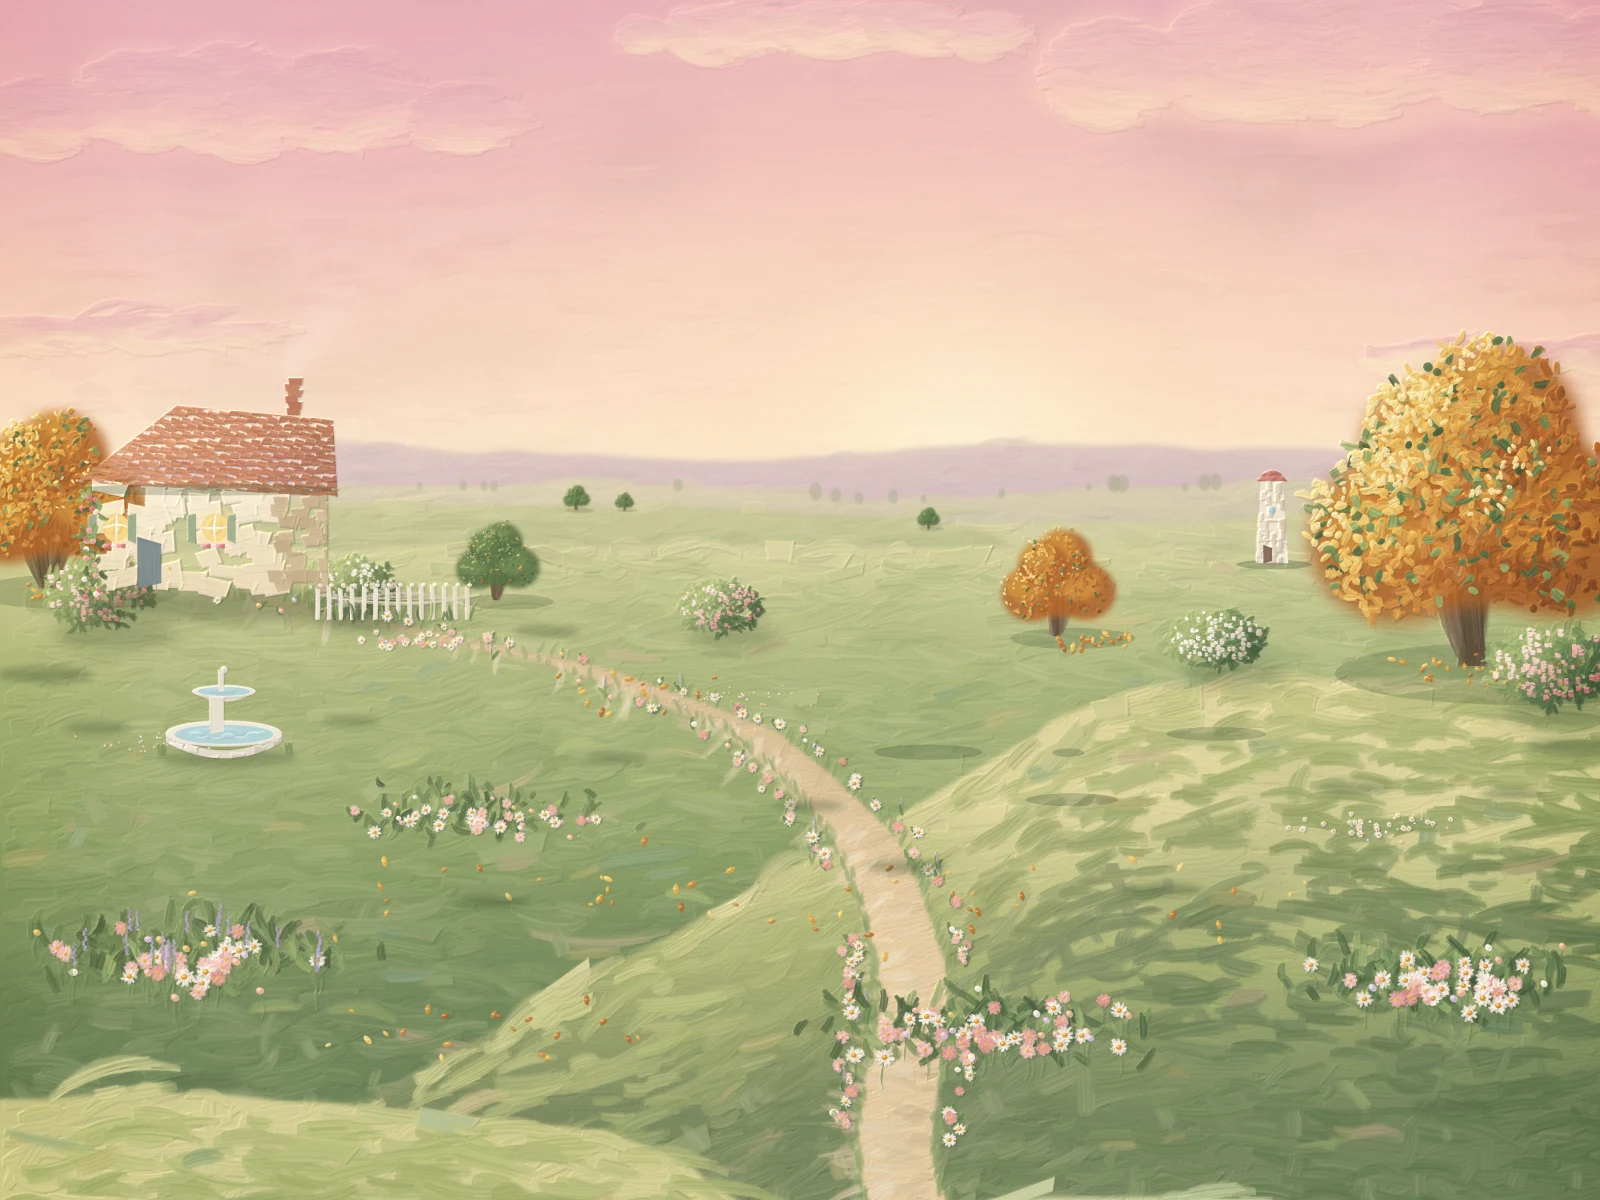
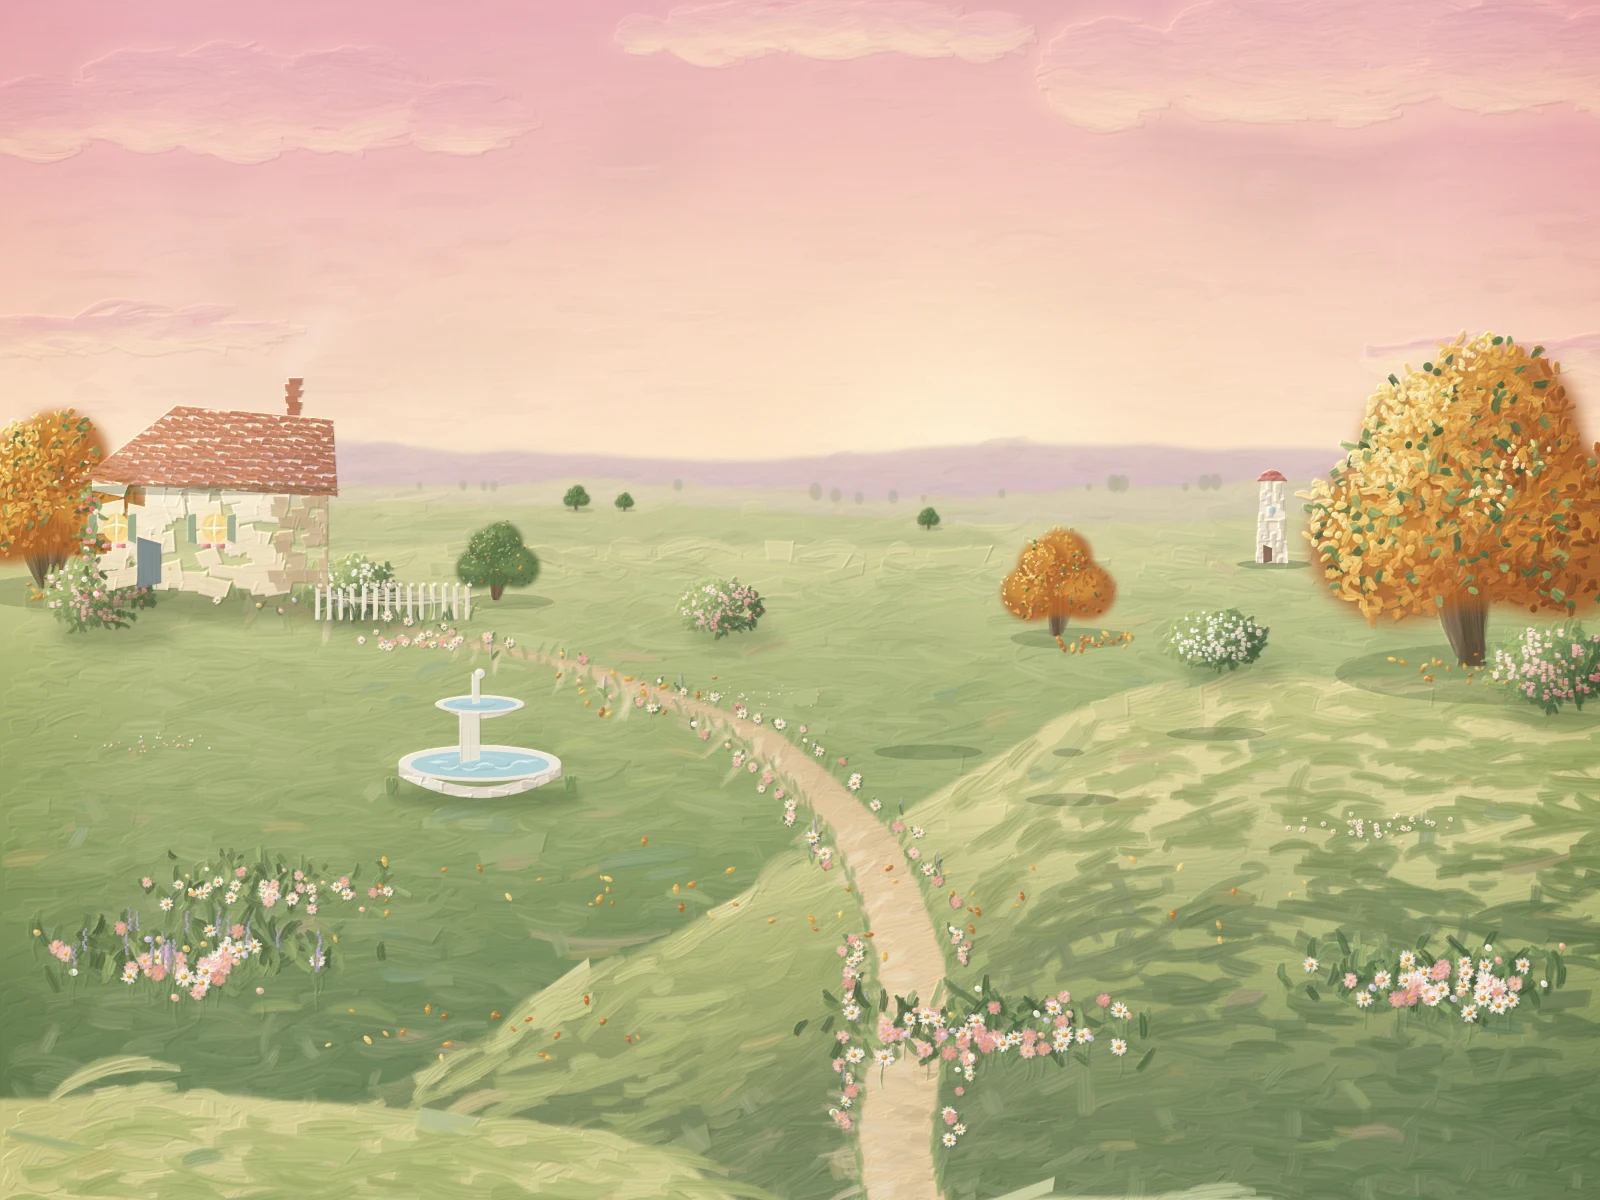
Landing: cleaner Scene 1, closer fountain, tidy tabletop, clear chair
- Scene 1: all the added grass clumps and leafy sprigs are removed
  (layers and their painted shadows). The fountain moves into the left
  middle ground beside the path and is larger (desktop 0.14 of the width,
  first view y 550-733 of 790; phone inside the first view).
- Scene 3 tabletop: the vase moves to the back-right corner, clear of the
  teapot, and the items are painted back to front (vase, cake stand,
  teapot, cups, fruit), so nothing behind is painted over something in front.
- Scene 3 chair: stands on the open grass above and behind the table,
  fully visible (no overlap with the table layer); the whole chair answers
  the pointer and still rocks forward and back.

diff --git a/src/components/landing/LivingLayer.tsx b/src/components/landing/LivingLayer.tsx
@@ -10,8 +10,8 @@ import { useEffect, useRef } from "react";
 // - the three dogs play together once when the cursor enters their group;
 // - the windmill's sails turn while hovered, then slow to a stop;
 // - the fountain's water flows while hovered, then fades away;
-// - the rocking chair (behind the tea table, which is a layer above it) rocks
-//   and settles when the cursor reaches its visible part.
+// - the rocking chair (on the grass behind the tea table) rocks and settles
+//   when the cursor reaches it.
 // Touch: a tap starts any of them and stirs nearby grass.
 // Reduced motion: everything stays still.
 
@@ -259,8 +259,7 @@ export default function LivingLayer({ desktop, mobile, breeze = true }: { deskto
           <div data-rocker className="living-rocker absolute" style={{ ...box(chair), transformOrigin: origin(chair) }}>
             {/* eslint-disable-next-line @next/next/no-img-element -- painted layer */}
             <img src={src(fmt, chair.name)} alt="" draggable={false} className="block h-auto w-full select-none" />
-            {/* only the part that shows above the table answers the pointer */}
-            <span data-rocker-hit className="pointer-events-auto absolute inset-x-[15%] top-0 h-[58%]" />
+            <span data-rocker-hit className="pointer-events-auto absolute inset-x-[12%] top-0 bottom-[4%]" />
           </div>
         )}
         {front.map((s) => (

diff --git a/docs/LANDING-ART-SPEC.md b/docs/LANDING-ART-SPEC.md
@@ -1,7 +1,7 @@
 # Landing: three scenes of one tall painting
 
-Checkpoints of earlier Landing versions: `landing-v1-checkpoint` … `landing-v8-checkpoint` (v8 is the version before the
-windmill and fountain, the still Scene 1 grass, the chair behind the table and the sequenced Scene 2 reveal).
+Checkpoints of earlier Landing versions: `landing-v1-checkpoint` … `landing-v9-checkpoint` (v9 is the version before
+the Scene 1 clean-up, the closer fountain, the tidied tabletop and the unobstructed chair).
 
 ## Structure
 
@@ -13,7 +13,7 @@ crossfade. Because the files are slices of one picture, the joins are seamless.
 | --- | --- | --- | --- |
 | 1 · A living garden | Peaceful, lived-in, early autumn | **A Garden of Ideas** only, centred in the first view | Composed for the first view on real screens, which shows only the top ~72% of the scene (1280×690, 1440×790 with browser toolbars): sky behind the title to ~0.42, then the cottage, trees, path and all three dogs above ~0.68, and meadow and flowers below. Below: a cream cottage with a white picket fence, four autumn trees, three small dogs with a ball, shrubs, the path edged with flowers, meadow flowers, fallen leaves, and grass and flowers in both bottom corners |
 | 2 · Thoughts on the hills | Reflective | The three thoughts as cream handwritten SVG text resting on real hill edges: each baseline is a painted hill's crest line, so the words sit in the shaded hollow just above it, with a soft dark halo. Hidden until the visitor scrolls into the scene; then each thought is written in word by word, in turn (at least 0.8 s apart), and they hide again if the visitor scrolls back above the scene | Overlapping rounded hills, the winding path, the pink flowering shrub, the daisy and cosmos clusters (unchanged from the previous version) |
-| 3 · Afternoon tea | Cosy destination | "Come see what I've been growing." at the top right; the hanging wooden sign **Explore My Work** (→ `/work`) | A shade tree turning gold; a round table with a pink gingham cloth, teapot, cups, a cake stand, fruit and a small vase; a cream-painted wooden rocking chair with a gingham cushion; flowers around the table; the path ending at a little garden gate in a hedge, with warm light beyond; the sign's post and arm above the gate |
+| 3 · Afternoon tea | Cosy destination | "Come see what I've been growing." at the top right; the hanging wooden sign **Explore My Work** (→ `/work`) | A shade tree turning gold; a round table with a pink gingham cloth: the cake stand at the back left, the teapot in the middle, the vase of flowers at the back right, and the cups and fruit in front, each painted back to front; a cream-painted wooden rocking chair with a gingham cushion; flowers around the table; the path ending at a little garden gate in a hedge, with warm light beyond; the sign's post and arm above the gate |
 
 Light is consistent throughout: a low sun beyond the hills, light from the upper left, warm rims, cool shadowed feet,
 and soft cast shadows under every object.
@@ -88,9 +88,9 @@ painted into the scene images, so they can move without leaving a copy behind. T
 | --- | --- |
 | Three dogs (body + tail each) and the ball | Hovering over the group (or tapping it) plays one 2.6 s sequence: the tan dog trots toward the white one, the white dog bows and hops, the dark dog hops twice, the tails wag and the ball pops up. It won't restart until the pointer has left |
 | Windmill sails (scene 1) | The Work page's windmill, repainted with the landing brushes, small in the distance to the right of the title. Hovering it makes the sails gather speed to about one turn every 5 s; afterwards they coast to a stop |
-| Fountain water (scene 1) | The Work page's two-tier fountain, repainted, at lower left. Hovering it makes water flow: two brush takes of the falling streams cross-fade and a few drops fall from the bowl. When the pointer leaves, the water fades away over about 1.4 s |
-| Grass clumps and leafy sprigs (scene 2 only; those in scene 1 stay still) | Each is anchored at its root. A passing cursor bends nearby plants the way it travels and pushes them slightly away, by about 9° at a slow 400 px/s and up to 16° fast, fading with distance (a reach of about 170 px). They spring back to rest. Sprigs are softer than grass, so their leaves follow a beat later |
-| Rocking chair (scene 3, desktop) | Stands behind the tea table; the table is its own layer in front of it, and only the part that shows above the table answers the pointer. Seen from the side. Hover or tap: it tilts forward and back about the point where its runners touch the ground (−4°, +3°, −1.9°, +1.1°, −0.45°) and settles in 3 s, without sliding |
+| Fountain water (scene 1) | The Work page's two-tier fountain, repainted, in the left middle ground beside the path (closer and larger than before). Hovering it makes water flow: two brush takes of the falling streams cross-fade and a few drops fall from the bowl. When the pointer leaves, the water fades away over about 1.4 s |
+| Grass clumps and leafy sprigs (scene 2 only; scene 1 has none) | Each is anchored at its root. A passing cursor bends nearby plants the way it travels and pushes them slightly away, by about 9° at a slow 400 px/s and up to 16° fast, fading with distance (a reach of about 170 px). They spring back to rest. Sprigs are softer than grass, so their leaves follow a beat later |
+| Rocking chair (scene 3, desktop) | Stands on the open grass above and behind the tea table, clear of it (the table is its own layer). Seen from the side. Hover or tap: it tilts forward and back about the point where its runners touch the ground (−4°, +3°, −1.9°, +1.1°, −0.45°) and settles in 3 s, without sliding |
 
 With reduced motion, none of these move. Touch: tapping starts the dogs or the chair and stirs nearby grass.
 
